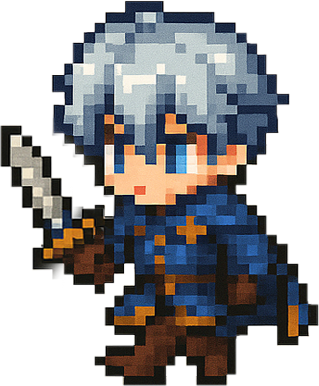
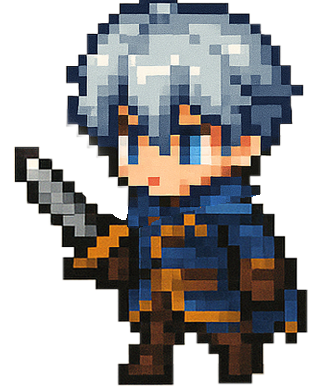
modified:   assets/images/Aster_walk1.png 	modified:   src/scenes/Stage1FieldScene.js 	modified:   src/scenes/StageSelectScene.js 	modified:   src/scenes/TutorialBossScene.js 	modified:   src/scenes/TutorialFieldScene.js

diff --git a/src/scenes/TutorialFieldScene.js b/src/scenes/TutorialFieldScene.js
@@ -99,7 +99,7 @@ export class TutorialFieldScene extends Phaser.Scene {
         this.player.setFlipX(true);
         this.player.setGravityY(this.gravity);  // 중력 설정
 
-        this.partner = this.physics.add.sprite(50, 500, 'Aster_walk2');
+        this.partner = this.physics.add.sprite(50, 500, 'Aster_walk1');
         this.partner.setCollideWorldBounds(true);
         this.partner.setScale(0.27);
         this.partner.setFlipX(true);
@@ -279,7 +279,7 @@ export class TutorialFieldScene extends Phaser.Scene {
                 this.player.anims.stop();
                 this.partner.anims.stop();
                 this.player.setTexture('Reed_walk1');
-                this.partner.setTexture('Aster_walk2');
+                this.partner.setTexture('Aster_walk1');
             }       
         }
 

diff --git a/src/scenes/Stage1FieldScene.js b/src/scenes/Stage1FieldScene.js
@@ -124,7 +124,7 @@ export class Stage1FieldScene extends Phaser.Scene {
         this.player.setFlipX(true);
         this.player.setGravityY(this.gravity);  // 중력 설정
 
-        this.partner = this.physics.add.sprite(50, 500, 'Aster_walk2');
+        this.partner = this.physics.add.sprite(50, 500, 'Aster_walk1');
         this.partner.setCollideWorldBounds(true);
         this.partner.setScale(0.27);
         this.partner.setFlipX(true);
@@ -447,7 +447,7 @@ export class Stage1FieldScene extends Phaser.Scene {
                 this.player.anims.stop();
                 this.partner.anims.stop();
                 this.player.setTexture('Reed_walk1');
-                this.partner.setTexture('Aster_walk2');
+                this.partner.setTexture('Aster_walk1');
             }       
         }
 

diff --git a/src/scenes/TutorialBossScene.js b/src/scenes/TutorialBossScene.js
@@ -107,7 +107,7 @@ export class TutorialBossScene extends Phaser.Scene {
         this.player.setFlipX(true);
         this.player.setGravityY(this.gravity);  // 중력 설정
 
-        this.partner = this.physics.add.sprite(50, 500, 'Aster_walk2');
+        this.partner = this.physics.add.sprite(50, 500, 'Aster_walk1');
         this.partner.setCollideWorldBounds(true);
         this.partner.setScale(0.27);
         this.partner.setFlipX(true);
@@ -325,7 +325,7 @@ export class TutorialBossScene extends Phaser.Scene {
                 this.player.anims.stop();
                 this.partner.anims.stop();
                 this.player.setTexture('Reed_walk1');
-                this.partner.setTexture('Aster_walk2');
+                this.partner.setTexture('Aster_walk1');
             }
         }
 

diff --git a/src/scenes/StageSelectScene.js b/src/scenes/StageSelectScene.js
@@ -110,7 +110,7 @@ export class StageSelectScene extends Phaser.Scene {
         this.player.setScale(0.27);
         this.player.setFlipX(true);
 
-        this.partner = this.physics.add.sprite(300, 200, 'Aster_walk2');
+        this.partner = this.physics.add.sprite(300, 200, 'Aster_walk1');
         this.partner.setCollideWorldBounds(true);
         this.partner.setScale(0.27);
         this.partner.setFlipX(true);
@@ -157,7 +157,7 @@ export class StageSelectScene extends Phaser.Scene {
                 this.partner.anims.stop();
 
                 this.player.setTexture("Reed_walk1");
-                this.partner.setTexture("Aster_walk2");
+                this.partner.setTexture("Aster_walk1");
 
                 this.isAutoMove = false;
 
